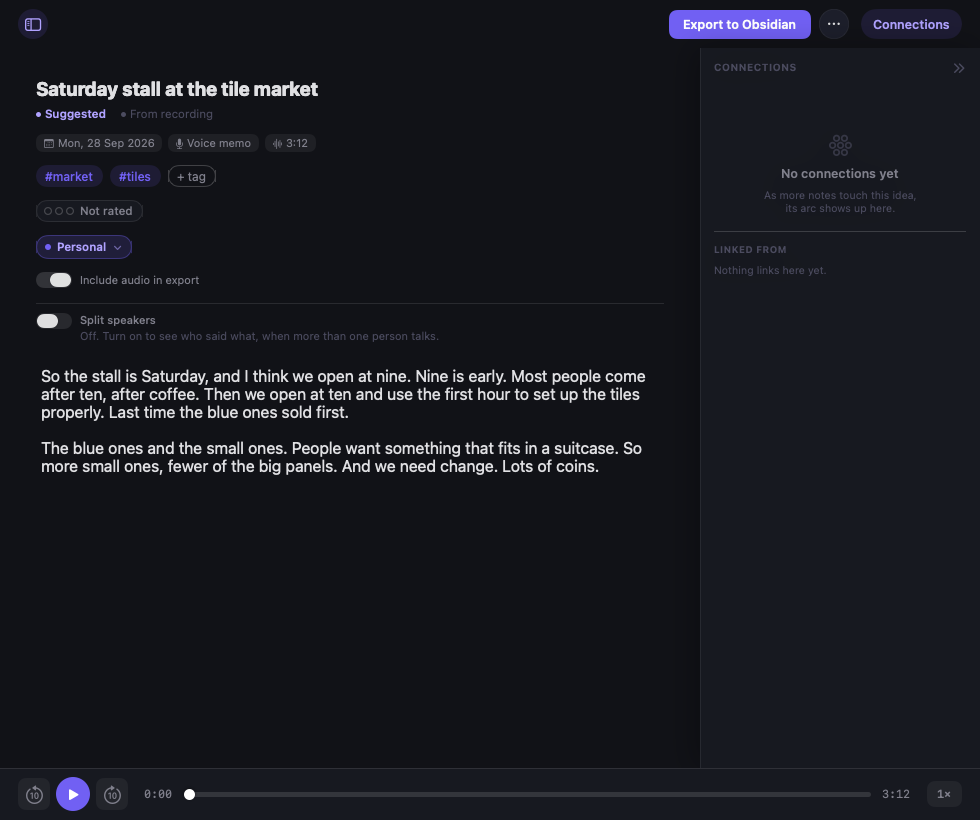
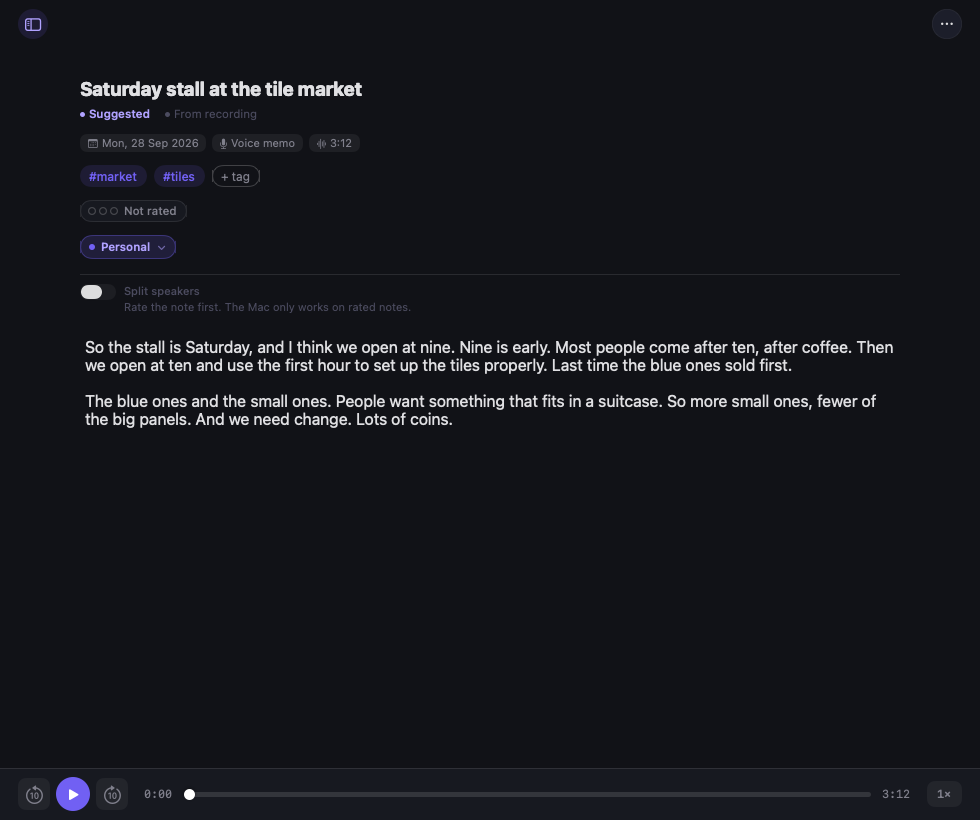
Q87: WIP at turn limit — SplitSpeakersRow/Snapshot tweaks + reshot 1b/2 (committed by dispatcher)

diff --git a/Skrift_Native/SkriftDesktop/Features/Review/SplitSpeakersRow.swift b/Skrift_Native/SkriftDesktop/Features/Review/SplitSpeakersRow.swift
@@ -170,9 +170,10 @@ struct SplitSpeakersRow: View {
 
     /// The note's last edit, when the transcript was hand-edited (the synced `Memo` carries it).
     private func lastEditDate() -> Date? {
-        guard let id = UUID(uuidString: file.id) else { return nil }
-        let memo = MemoCloudStore.container.flatMap {
-            try? ModelContext($0).fetch(FetchDescriptor<Memo>(predicate: #Predicate { $0.id == id })).first
+        let memo: Memo? = UUID(uuidString: file.id).flatMap { id in
+            MemoCloudStore.container.flatMap {
+                try? ModelContext($0).fetch(FetchDescriptor<Memo>(predicate: #Predicate { $0.id == id })).first
+            }
         }
         guard file.transcriptUserEdited || memo?.transcriptUserEdited == true else { return nil }
         return memo?.editedAt ?? file.syncedSourceEditedAt

diff --git a/Skrift_Native/SkriftDesktop/Features/Shell/Snapshot.swift b/Skrift_Native/SkriftDesktop/Features/Shell/Snapshot.swift
@@ -1131,7 +1131,8 @@ enum Snapshot {
                 f.transcriptUserEdited = true
                 f.syncedSourceEditedAt = Calendar.current.date(from: DateComponents(year: 2026, month: 9, day: 28, hour: 18))
             }
-            ctx.insert(f)
+            // An unrated note is a PROJECTION with no pipeline row (C187) — never inserted.
+            if rated { ctx.insert(f) }
             return f
         }
         func shot(_ name: String, _ f: PipelineFile, confirm: SplitSpeakersRow.Confirm? = nil) {
